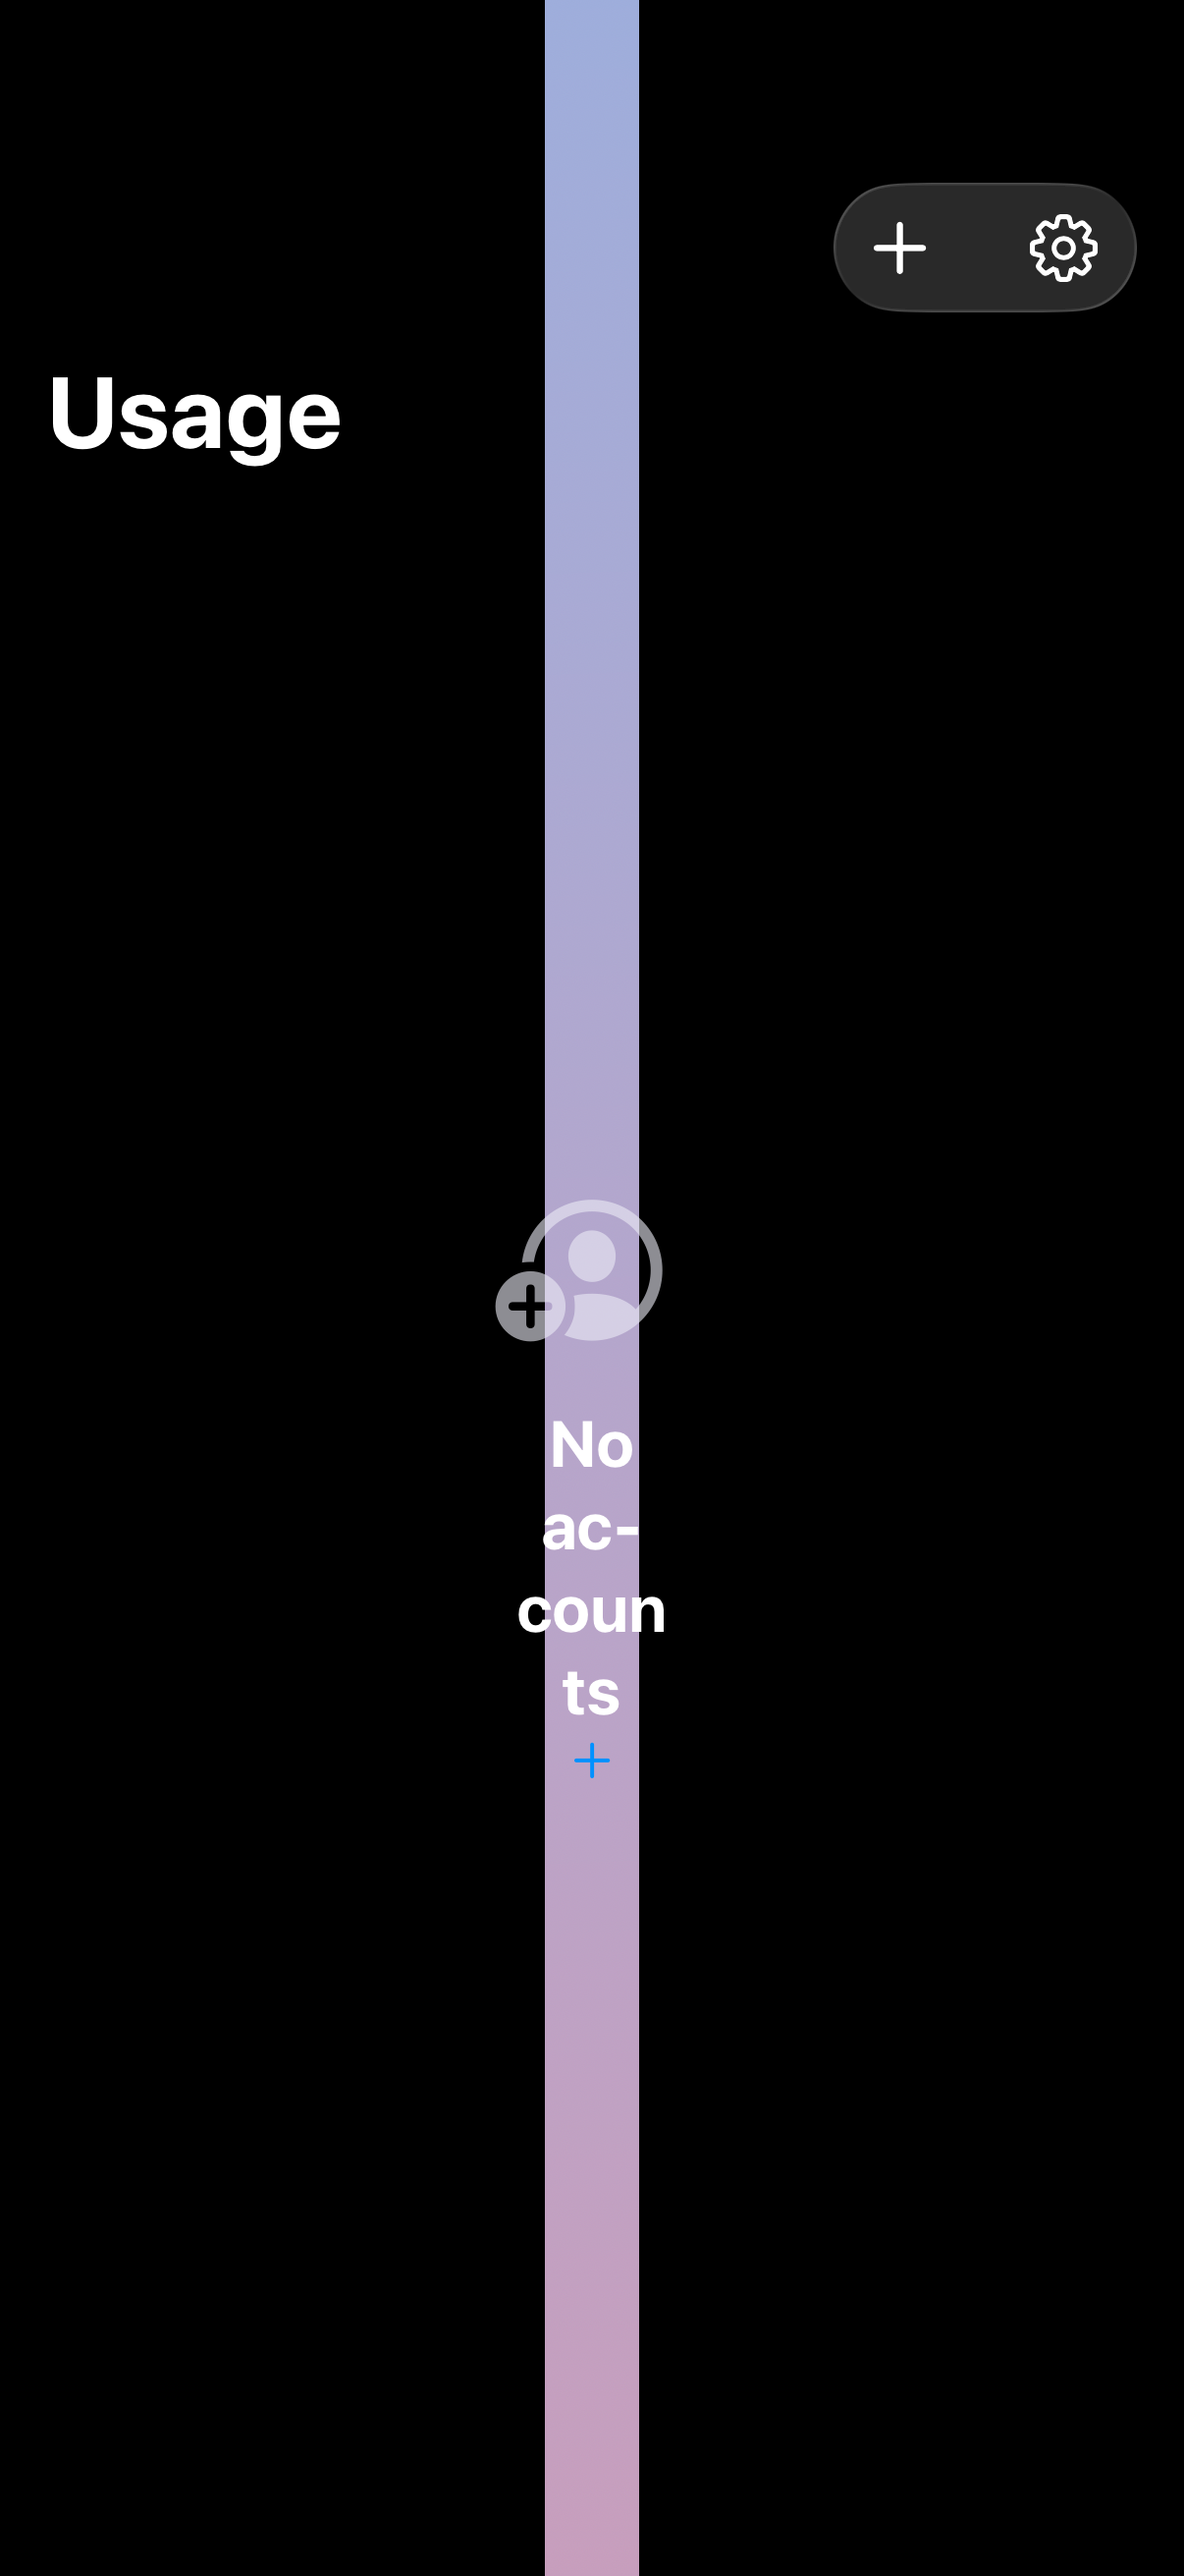
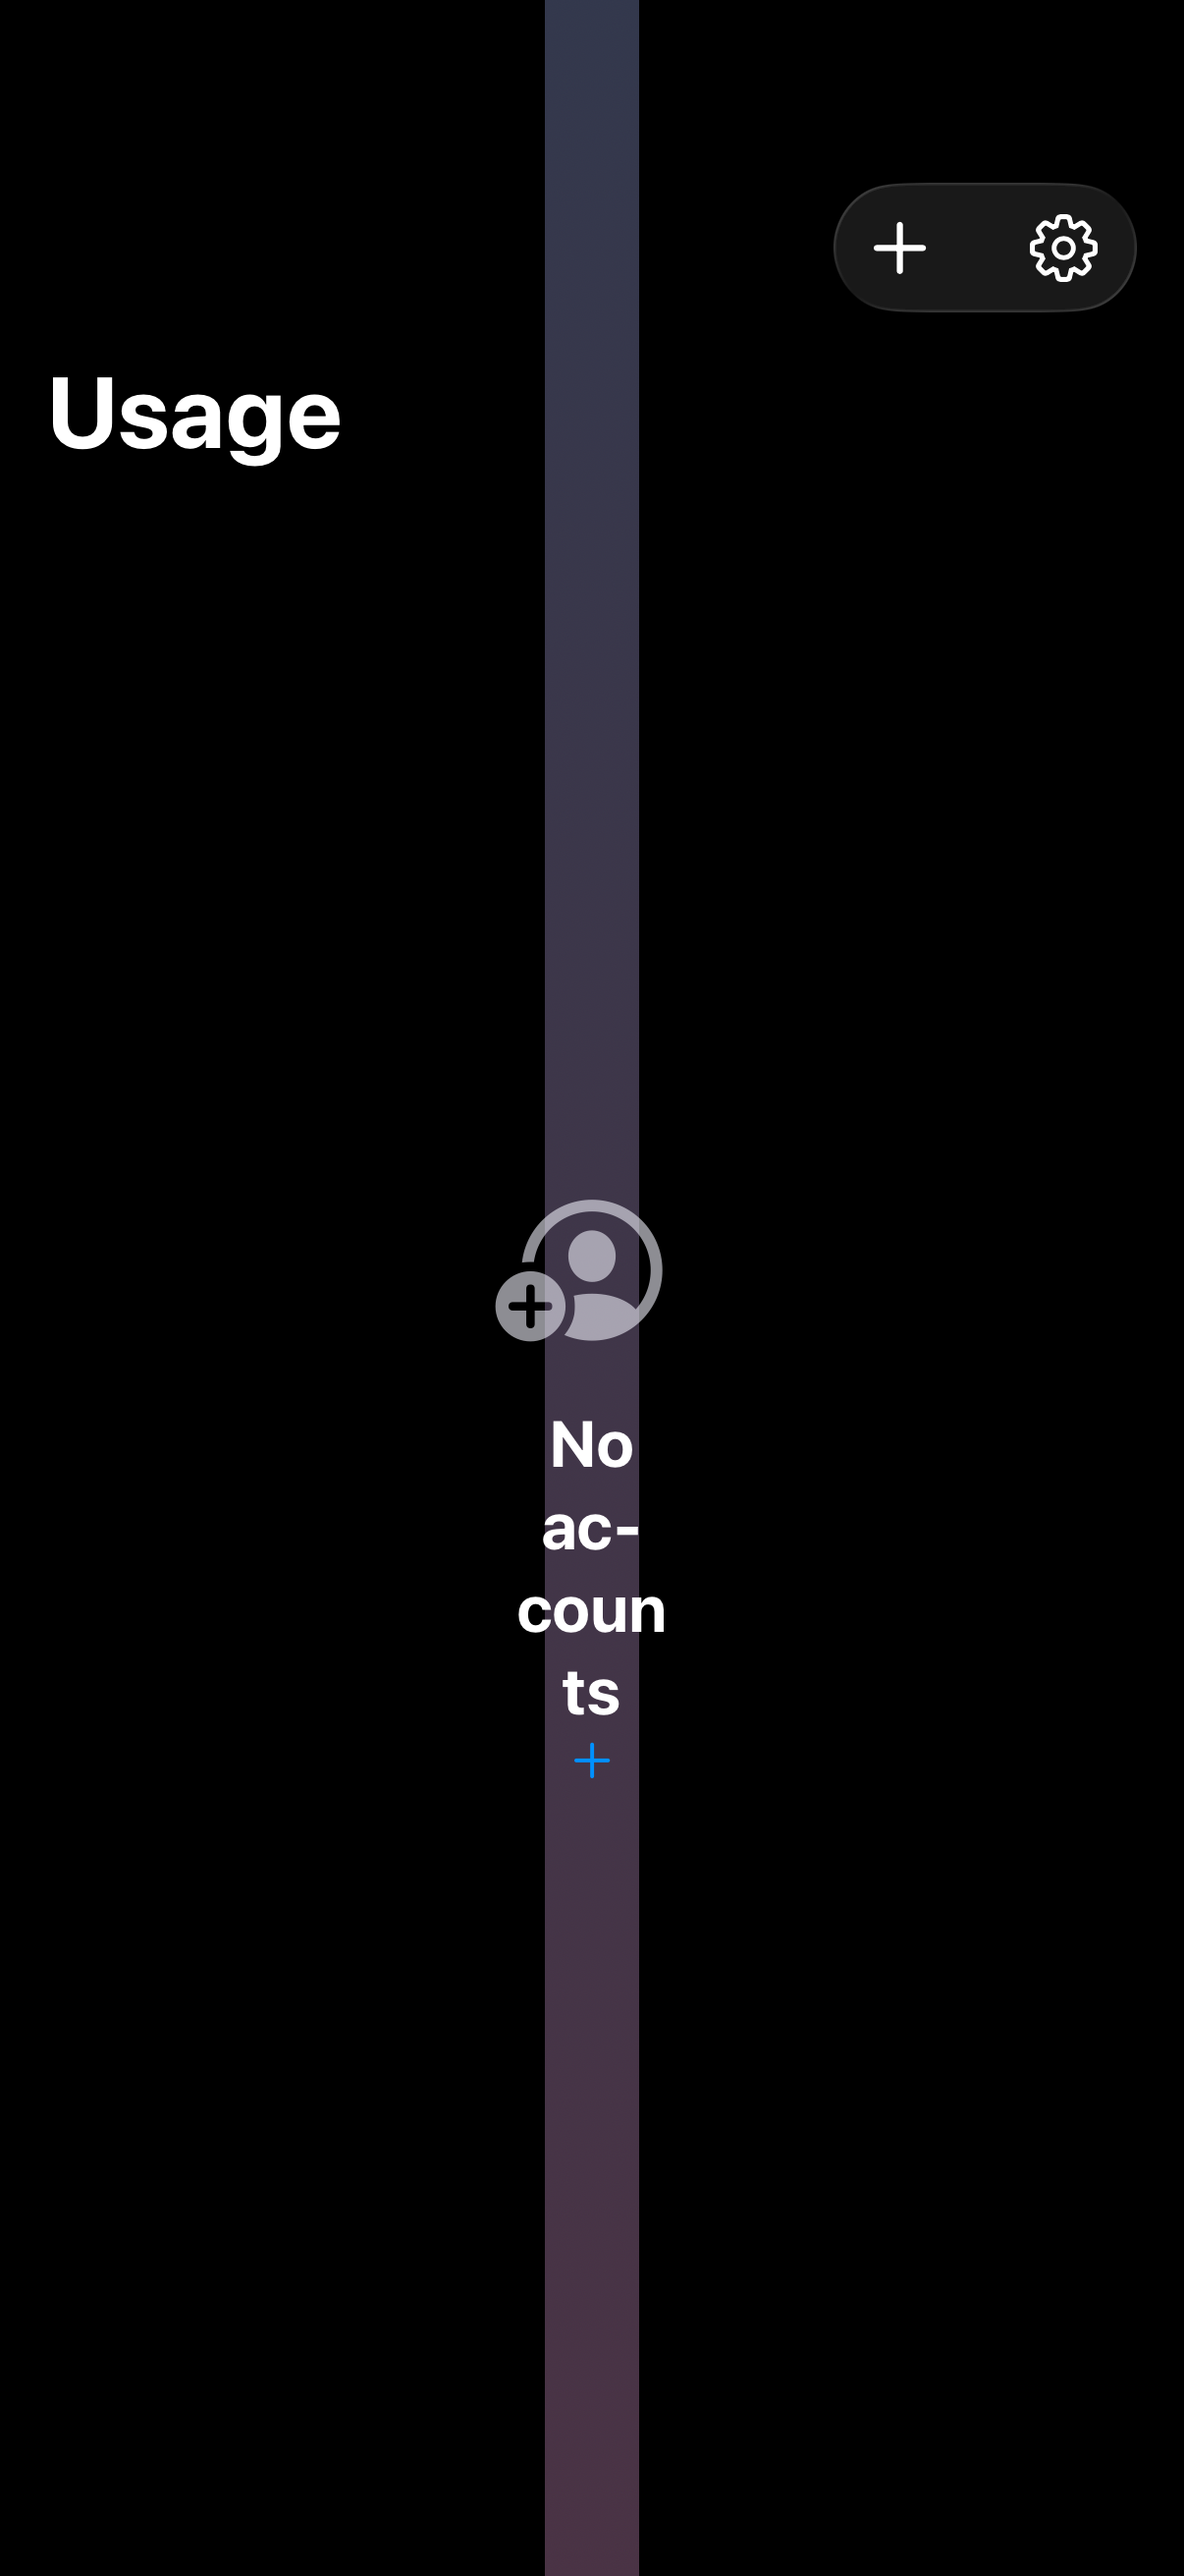
fix(ios): Home dark gradient and dark-mode contrast

Changed region(s): [[0.4602, 0.0, 0.5522, 1.0]]

diff --git a/iOS/App/Home/HomeView.swift b/iOS/App/Home/HomeView.swift
@@ -52,6 +52,7 @@ struct HomeContent: View {
     var calendar: Calendar = .current
 
     @Environment(\.appTheme) private var theme
+    @Environment(\.colorScheme) private var scheme
     @State private var collapsed: Set<AccountID> = []
 
     var body: some View {
@@ -100,7 +101,9 @@ struct HomeContent: View {
     @ViewBuilder private var backdrop: some View {
         if theme == .glass {
             LinearGradient(
-                colors: [Color(red: 0.62, green: 0.68, blue: 0.86), Color(red: 0.78, green: 0.62, blue: 0.74)],
+                colors: scheme == .dark
+                    ? [Color(red: 0.20, green: 0.22, blue: 0.30), Color(red: 0.29, green: 0.20, blue: 0.27)]
+                    : [Color(red: 0.62, green: 0.68, blue: 0.86), Color(red: 0.78, green: 0.62, blue: 0.74)],
                 startPoint: .topLeading,
                 endPoint: .bottomTrailing
             )

diff --git a/iOS/App/Theme/MeterView.swift b/iOS/App/Theme/MeterView.swift
@@ -78,7 +78,17 @@ struct MeterView: View {
     }
 
     private func glassTint(_ s: Meter.Severity, _ c: Color) -> Color {
-        scheme == .dark && s == .normal && kind == .codex ? Color(red: 0.72, green: 0.96, blue: 0.93) : c
+        guard scheme == .dark else { return c }
+        switch s {
+        case .normal:
+            switch kind {
+            case .claude: return Color(red: 1.0, green: 0.72, blue: 0.56)
+            case .copilot: return Color(red: 0.88, green: 0.82, blue: 1.0)
+            case .codex: return Color(red: 0.72, green: 0.96, blue: 0.93)
+            }
+        case .warning: return Color(red: 1.0, green: 0.82, blue: 0.45)
+        case .critical: return Color(red: 1.0, green: 0.66, blue: 0.62)
+        }
     }
 
     // MARK: Instrument

diff --git a/iOS/App/AgentHourglassApp.swift b/iOS/App/AgentHourglassApp.swift
@@ -5,6 +5,7 @@ import UsageCore
 struct AgentHourglassApp: App {
     @State private var themeStore = ThemeStore.appGroup()
     @State private var model = AppModel(env: UsageEnvironment.live(), displayStore: DisplaySettingsStore(defaults: AppGroup.defaults))
+    // TODO(P4 Task 15): present SettingsView when showSettings is true.
     @State private var showSettings = false
     @Environment(\.scenePhase) private var scenePhase
 

diff --git a/iOS/App/Home/HomeHeader.swift b/iOS/App/Home/HomeHeader.swift
@@ -30,7 +30,7 @@ struct HomeHeader: View {
             Text(Self.statusLine(state, calendar: calendar))
         }
         .font(.subheadline)
-        .foregroundStyle(.secondary)
+        .foregroundStyle(scheme == .dark ? Color.white.opacity(0.88) : Color.primary.opacity(0.7))
         .frame(maxWidth: .infinity, alignment: .leading)
         .accessibilityElement(children: .combine)
     }
